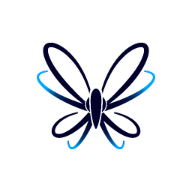
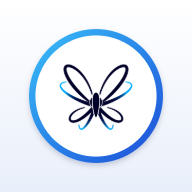
feat: tampilkan kepanjangan OPUS
- Halaman login menampilkan "Operations · People · Units · Services" di bawah nama aplikasi
- Tooltip logo OPUS di sidebar dan login
- Deskripsi meta dan PWA memuat kepanjangan OPUS
- Nama dan kepanjangan aplikasi di src/utils/brand.js; main.css diperbarui

Changed region(s): [[0.125, 0.125, 0.875, 0.9062]]

diff --git a/src/layouts/Auth.vue b/src/layouts/Auth.vue
@@ -5,6 +5,8 @@ import ThemeFloatingSwitch from "@/components/admin/ThemeFloatingSwitch.vue";
 import AuthBackdrop from "@/components/auth/AuthBackdrop.vue";
 import AuthLogo3D from "@/components/auth/AuthLogo3D.vue";
 import { APP_VERSION_SHORT } from "@/utils/appVersion";
+import { APP_EXPANSION, APP_EXPANSION_SHORT } from "@/utils/brand";
+import OpusMark from "@/components/common/OpusMark.vue";
 
 import { onMounted, reactive, ref } from "vue";
 
@@ -29,12 +31,10 @@ const moveShine = (e) => {
     <!-- Form side -->
     <div class="flex-1 lg:flex-none lg:w-[min(560px,46vw)] flex flex-col px-6 sm:px-12 lg:px-16 pt-8 pb-6 min-h-screen">
       <div class="flex items-center gap-2.5">
-        <div class="w-9 h-9 rounded-[10px] bg-ui-surface border border-ui-line flex items-center justify-center">
-          <img src="/images/jcd-only-color.png" alt="Jendela Cakra Digital" class="w-7 h-7 object-contain" />
-        </div>
+        <OpusMark label="OPUS" :title="`OPUS · ${APP_EXPANSION}`" class="w-9 h-9 shrink-0" />
         <div class="leading-tight">
           <div class="flex items-center gap-1.5">
-            <span class="text-ui-h3 text-ui-ink">TEMPO</span>
+            <span class="text-ui-h3 text-ui-ink">OPUS</span>
             <span class="text-[10.5px] leading-[15px] px-1.5 rounded border border-ui-line text-ui-muted tabular-nums">v{{ APP_VERSION_SHORT }}</span>
           </div>
           <p class="text-ui-cap text-ui-muted">PT Jendela Cakra Digital</p>
@@ -47,7 +47,7 @@ const moveShine = (e) => {
         </div>
       </div>
 
-      <p class="text-ui-cap text-ui-faint">© {{ year }} PT Jendela Cakra Digital · TEMPO v{{ APP_VERSION_SHORT }}</p>
+      <p class="text-ui-cap text-ui-faint">© {{ year }} PT Jendela Cakra Digital · OPUS v{{ APP_VERSION_SHORT }}</p>
     </div>
 
     <!-- Brand side (desktop) -->
@@ -59,7 +59,10 @@ const moveShine = (e) => {
           @ready="logoReady = true"
         />
         <div class="auth-copy" :class="{ 'is-in': logoReady }">
-          <p class="text-ui-over uppercase tracking-[0.08em] text-white/55">{{ $t("auth.layout.eyebrow") }}</p>
+          <div>
+            <p class="text-ui-over uppercase tracking-[0.08em] text-white/55">{{ $t("auth.layout.eyebrow") }}</p>
+            <p class="mt-1.5 text-[11px] uppercase tracking-[0.2em] text-sky-200/60" :title="APP_EXPANSION">{{ APP_EXPANSION_SHORT }}</p>
+          </div>
           <h2
             class="auth-headline mt-4 text-[32px] leading-[42px] font-medium tracking-[-0.02em] text-white [text-wrap:balance]"
             :class="{ 'is-lit': shine.on }"

diff --git a/index.html b/index.html
@@ -17,21 +17,21 @@
     <meta name="mobile-web-app-capable" content="yes" />
     <meta name="apple-mobile-web-app-capable" content="yes" />
     <meta name="apple-mobile-web-app-status-bar-style" content="default" />
-    <meta name="apple-mobile-web-app-title" content="TEMPO" />
+    <meta name="apple-mobile-web-app-title" content="OPUS" />
     <link rel="apple-touch-icon" href="/apple-touch-icon.png" />
-    <title>TEMPO · PT. Jendela Cakra Digital</title>
+    <title>OPUS · PT. Jendela Cakra Digital</title>
     <meta
       name="description"
-      content="Dashboard ERP internal PT Jendela Cakra Digital untuk manajemen data operasional, keuangan, SDM, dan pelaporan bisnis terintegrasi secara real-time."
+      content="OPUS (Operations, People, Units &amp; Services) — Backoffice PT Jendela Cakra Digital untuk operasional, keuangan, SDM, dan pelaporan bisnis terintegrasi secara real-time."
     />
     <meta name="robots" content="noindex, nofollow" />
 
     <meta property="og:type" content="website" />
     <meta property="og:site_name" content="PT. Jendela Cakra Digital" />
-    <meta property="og:title" content="TEMPO · PT. Jendela Cakra Digital" />
+    <meta property="og:title" content="OPUS · PT. Jendela Cakra Digital" />
     <meta
       property="og:description"
-      content="Dashboard ERP internal PT Jendela Cakra Digital untuk manajemen data operasional, keuangan, SDM, dan pelaporan bisnis terintegrasi secara real-time."
+      content="OPUS (Operations, People, Units &amp; Services) — Backoffice PT Jendela Cakra Digital untuk operasional, keuangan, SDM, dan pelaporan bisnis terintegrasi secara real-time."
     />
     <meta property="og:image" content="/images/og-image.png" />
     <meta property="og:image:width" content="1200" />

diff --git a/src/components/admin/Sidebar.vue b/src/components/admin/Sidebar.vue
@@ -1,6 +1,8 @@
 <script setup>
 import { useI18n } from "vue-i18n";
 import { APP_VERSION_SHORT } from "@/utils/appVersion";
+import OpusMark from "@/components/common/OpusMark.vue";
+import { APP_EXPANSION } from "@/utils/brand";
 import { computed, ref, watch } from "vue";
 import {
   LayoutDashboard,
@@ -150,12 +152,10 @@ const labelClass = computed(() => ["nav-label truncate", collapsed.value ? "lg:h
   >
     <!-- Brand -->
     <div class="flex items-center gap-2.5 px-3.5 pt-3.5 pb-3" :class="collapsed ? 'lg:flex-col lg:px-2 lg:gap-2' : ''">
-      <div class="w-8 h-8 shrink-0 rounded-[9px] bg-ui-surface border border-ui-line flex items-center justify-center">
-        <img src="/images/jcd-only-color.png" alt="Jendela Cakra Digital" class="w-6 h-6 object-contain" />
-      </div>
+      <OpusMark label="OPUS" :title="`OPUS · ${APP_EXPANSION}`" class="w-8 h-8 shrink-0" />
       <div class="min-w-0 flex-1" :class="collapsed ? 'lg:hidden' : ''">
         <div class="flex items-center gap-1.5">
-          <span class="text-ui-h3 text-ui-ink">TEMPO</span>
+          <span class="text-ui-h3 text-ui-ink" :title="APP_EXPANSION">OPUS</span>
           <span class="text-[10.5px] leading-[15px] px-1.5 rounded border border-ui-line text-ui-muted tabular-nums">v{{ APP_VERSION_SHORT }}</span>
         </div>
         <p class="text-ui-cap text-ui-muted truncate">Jendela Cakra Digital</p>

diff --git a/src/components/admin/employee/create/Stepper.vue b/src/components/admin/employee/create/Stepper.vue
@@ -1,5 +1,6 @@
 <script setup lang="ts">
 import { APP_VERSION_SHORT } from "@/utils/appVersion";
+import OpusMark from "@/components/common/OpusMark.vue";
 import { Check } from "lucide-vue-next";
 import { computed } from "vue";
 import { useI18n } from "vue-i18n";
@@ -36,14 +37,10 @@ const stateOf = (index: number) => {
   <aside class="hidden lg:flex w-64 shrink-0 bg-ui-surface border-r border-ui-line flex-col">
     <!-- Brand -->
     <div class="h-[73px] px-5 flex items-center gap-3 border-b border-ui-line">
-      <img
-        src="/images/jcd-only-color.png"
-        :alt="$t('employees.wizard.companyLogo')"
-        class="w-8 h-8 object-contain shrink-0"
-      />
+      <OpusMark label="OPUS" class="w-8 h-8 shrink-0" />
       <div class="min-w-0">
         <p class="flex items-center gap-1.5 text-ui-h3 text-ui-ink">
-          TEMPO
+          OPUS
           <span class="text-ui-cap font-normal px-1.5 rounded border border-ui-line text-ui-muted tabular-nums">v{{ APP_VERSION_SHORT }}</span>
         </p>
         <p class="text-ui-cap text-ui-muted truncate">Jendela Cakra Digital</p>

diff --git a/src/components/common/LoadingOverlay.vue b/src/components/common/LoadingOverlay.vue
@@ -1,4 +1,5 @@
 <script setup lang="ts">
+import OpusMark from "@/components/common/OpusMark.vue";
 withDefaults(defineProps<{ show: boolean; text?: string }>(), {
   text: "", // default: common.states.pleaseWait
 });
@@ -17,9 +18,7 @@ withDefaults(defineProps<{ show: boolean; text?: string }>(), {
             <circle cx="32" cy="32" r="29" stroke="rgb(var(--ui-line))" stroke-width="2" />
             <path d="M61 32A29 29 0 0 0 32 3" stroke="rgb(var(--ui-accent))" stroke-width="2" stroke-linecap="round" />
           </svg>
-          <div class="w-11 h-11 rounded-[12px] bg-ui-surface border border-ui-line flex items-center justify-center">
-            <img src="/images/jcd-only-color.png" alt="" class="w-8 h-8 object-contain" />
-          </div>
+          <OpusMark class="w-11 h-11" />
         </div>
         <div class="text-center">
           <p class="text-ui-small font-medium text-ui-ink">{{ text || $t("common.states.pleaseWait") }}</p>

diff --git a/src/views/dev/UiKit.vue b/src/views/dev/UiKit.vue
@@ -92,7 +92,7 @@ const removeItem = (i) => listItems.value.splice(i, 1);
   <div class="min-h-full bg-ui-bg font-sans text-ui-text -m-3 p-4 sm:p-8 space-y-8">
     <header class="flex flex-wrap items-end gap-4">
       <div class="flex-1 min-w-0">
-        <p class="text-ui-over uppercase text-ui-faint">TEMPO redesign · development only</p>
+        <p class="text-ui-over uppercase text-ui-faint">OPUS redesign · development only</p>
         <h1 class="text-ui-display text-ui-ink mt-1">UI kit</h1>
         <p class="text-ui-small text-ui-muted mt-1">Palette B · Navy + Blue · Inter. App version v{{ APP_VERSION_SHORT }} ({{ APP_VERSION }}, from package.json).</p>
       </div>

diff --git a/vite.config.js b/vite.config.js
@@ -56,9 +56,9 @@ export default defineConfig({
       includeManifestIcons: false,
       manifest: {
         id: '/',
-        name: 'TEMPO · Jendela Cakra Digital',
-        short_name: 'TEMPO',
-        description: 'Back office PT Jendela Cakra Digital: absensi, tugas, proyek, keuangan, dan SDM.',
+        name: 'OPUS · Jendela Cakra Digital',
+        short_name: 'OPUS',
+        description: 'OPUS (Operations, People, Units & Services): Backoffice PT Jendela Cakra Digital untuk absensi, tugas, proyek, keuangan, dan SDM.',
         lang: 'id',
         start_url: '/',
         scope: '/',

diff --git a/src/assets/css/main.css b/src/assets/css/main.css
@@ -4460,6 +4460,10 @@ button:disabled,
   font-size: 10px;
 }
 
+.text-\[11px\] {
+  font-size: 11px;
+}
+
 .text-\[17px\] {
   font-size: 17px;
 }
@@ -4628,6 +4632,10 @@ button:disabled,
 
 .tracking-\[0\.08em\] {
   letter-spacing: 0.08em;
+}
+
+.tracking-\[0\.2em\] {
+  letter-spacing: 0.2em;
 }
 
 .tracking-normal {
@@ -4883,6 +4891,10 @@ button:disabled,
 .text-rose-700 {
   --tw-text-opacity: 1;
   color: rgb(190 18 60 / var(--tw-text-opacity, 1));
+}
+
+.text-sky-200\/60 {
+  color: rgb(186 230 253 / 0.6);
 }
 
 .text-sky-700 {

diff --git a/src/components/common/OpusMark.vue b/src/components/common/OpusMark.vue
@@ -1,0 +1,12 @@
+<script setup>
+// The OPUS app icon: the JCD butterfly inside a blue ring on a white
+// squircle (public/images/opus-icon.svg is the source; the PNG is used here).
+defineProps({
+  // Accessible name; empty = decorative.
+  label: { type: String, default: "" },
+});
+</script>
+
+<template>
+  <img src="/images/opus-icon.png" :alt="label" :aria-hidden="label ? undefined : 'true'" class="object-contain select-none" draggable="false" />
+</template>

diff --git a/src/utils/brand.js b/src/utils/brand.js
@@ -1,0 +1,7 @@
+// The app's name and what it stands for (shown on the login page and as
+// the sidebar logo's tooltip). OPUS is the backoffice of PT Jendela Cakra
+// Digital.
+export const APP_NAME = "OPUS";
+export const APP_EXPANSION = "Operations, People, Units & Services";
+// "Operations · People · Units · Services" for one-line labels.
+export const APP_EXPANSION_SHORT = APP_EXPANSION.replace(", ", " · ").replace(", ", " · ").replace(" & ", " · ");
